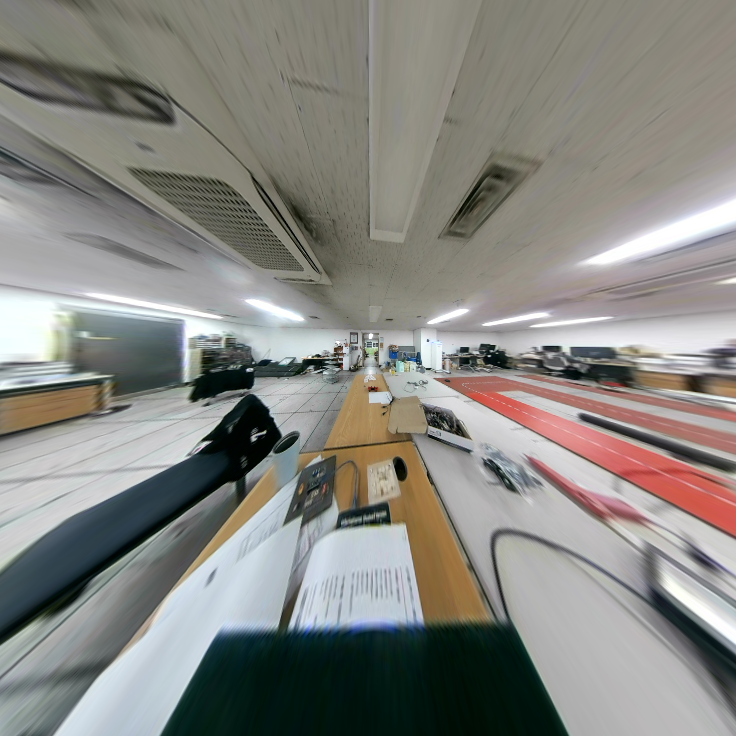
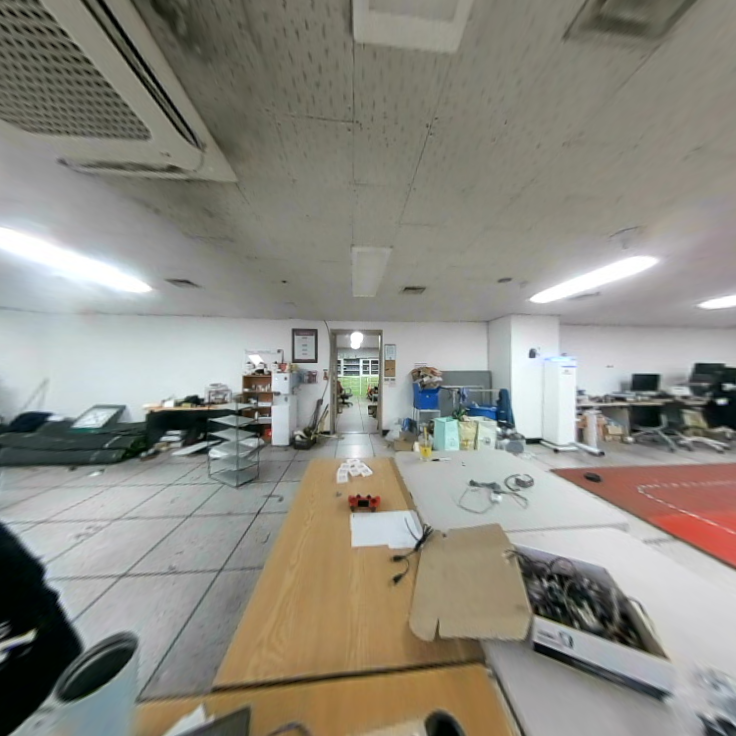
fix: undistortion function

diff --git a/undistort.py b/undistort.py
@@ -5,50 +5,50 @@ import matplotlib.pyplot as plt
 
 camera_matrix = np.array([[234.145229, 0.330551, 370.627918],
                           [0.000000, 236.049533, 364.741985],
-                          [0.000000, 0.000000, 1.000000]])
+                          [0.000000, 0.000000, 1.000000]], dtype=np.float64)
 
-dist_coeffs = np.array([-0.022016, -0.006007, 0.001086, -0.000218])
+distortion_coeffs =np.array([-0.022016, -0.006007, 0.001086, -0.000218], dtype=np.float64)
+
+E = np.eye(3, dtype=np.float64)
+
 current_dir = os.path.dirname(os.path.abspath(__file__))
 input_folder = os.path.join(current_dir, 'distorted')
 output_folder = os.path.join(current_dir, 'undistorted')
+
+original_images = []
+undistorted_images = []
 
 if not os.path.exists(output_folder):
     os.makedirs(output_folder)
 
 image_files = [f for f in os.listdir(input_folder) if f.endswith(('.png', '.jpg', '.jpeg'))]
 
-original_images = []
-undistorted_images = []
+def undistort_image(input_frame):
+    size = (input_frame.shape[1], input_frame.shape[0])
 
-for image_file in image_files:
-    image_path = os.path.join(input_folder, image_file)
-    image = cv2.imread(image_path)
+    map1, map2 = cv2.fisheye.initUndistortRectifyMap(
+        camera_matrix, distortion_coeffs, E, camera_matrix, size, cv2.CV_16SC2
+    )
+
+    undistort = cv2.remap(input_frame, map1, map2, interpolation=cv2.INTER_LINEAR, borderMode=cv2.BORDER_CONSTANT)
     
-    if image is not None:
-        image_rgb = cv2.cvtColor(image, cv2.COLOR_BGR2RGB)
-        h, w = image.shape[:2]
+    return undistort
 
-        new_camera_matrix = cv2.fisheye.estimateNewCameraMatrixForUndistortRectify(
-            camera_matrix, dist_coeffs, (w, h), np.eye(3), balance=0.0
-        )
+def main():
+    for image_file in image_files:
+        input_frame = cv2.imread(os.path.join(input_folder, image_file))
+        undistort = undistort_image(input_frame)
 
-        map1, map2 = cv2.fisheye.initUndistortRectifyMap(
-            camera_matrix, dist_coeffs, np.eye(3), new_camera_matrix, (w, h), cv2.CV_16SC2
-        )
-
-        undistorted_image = cv2.remap(image, map1, map2, interpolation=cv2.INTER_LINEAR)
-        undistorted_rgb = cv2.cvtColor(undistorted_image, cv2.COLOR_BGR2RGB)
-
+        original_images.append(input_frame)
+        undistorted_images.append(undistort)
+        
         output_path = os.path.join(output_folder, f'undistorted_{image_file}')
-        cv2.imwrite(output_path, undistorted_image)
-
-        original_images.append(image_rgb)
-        undistorted_images.append(undistorted_rgb)
-
-n_images = len(original_images)
-if n_images > 0:
-    for i in range(0, n_images, 2):
-        current_group = min(2, n_images - i)
+        cv2.imwrite(output_path, undistort)
+        
+    n_images = len(original_images)
+    if n_images > 0:
+        for i in range(0, n_images, 2):
+            current_group = min(2, n_images - i)
         
         fig, axes = plt.subplots(current_group, 2, figsize=(10, 5*current_group))
         
@@ -67,5 +67,8 @@ if n_images > 0:
         
         plt.tight_layout()
         plt.show()
-else:
-    print("Failed to find any images to process.")
+    else:
+        print("Failed to find any images to process.")
+                
+if __name__ == "__main__":
+    main()
